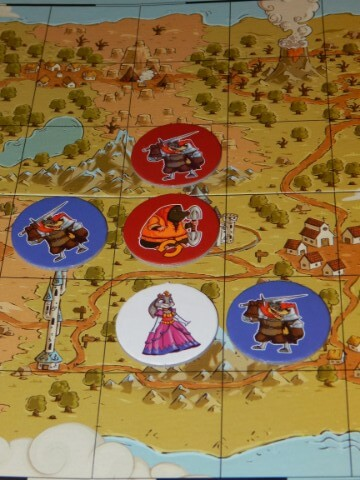
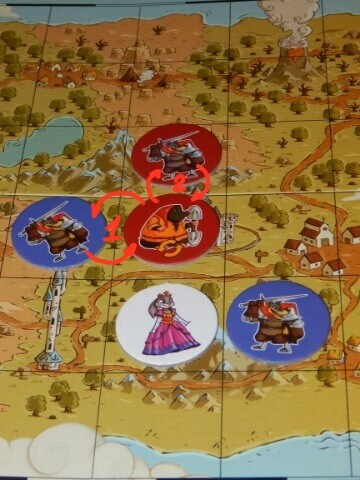
Added arrows to examples images.

Changed region(s): [[0.2139, 0.3438, 0.4583, 0.5625], [0.4583, 0.3438, 0.6111, 0.4375]]

diff --git a/FoggyIsland/language/ua/IndexPage.md b/FoggyIsland/language/ua/IndexPage.md
@@ -1,11 +1,11 @@
 ---
-permalink: /en/fi-main/
+permalink: /ua/fi-main/
 title: Foggy Island
 ---
 
 # Foggy Island
 
-[Check ukrainian version of this page](../ua/IndexPage.md) | [Return to Start Page](../../../index.md)
+[Check ukrainian version of this page](../en/IndexPage.md) | [Return to Start Page](../../../index.md)
 
 
 ## Rules of play
